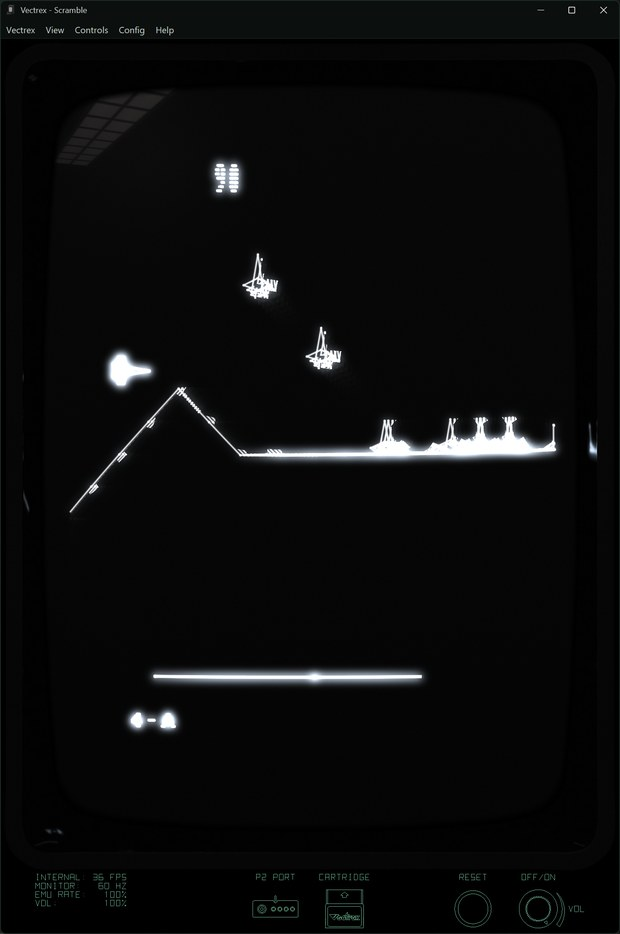
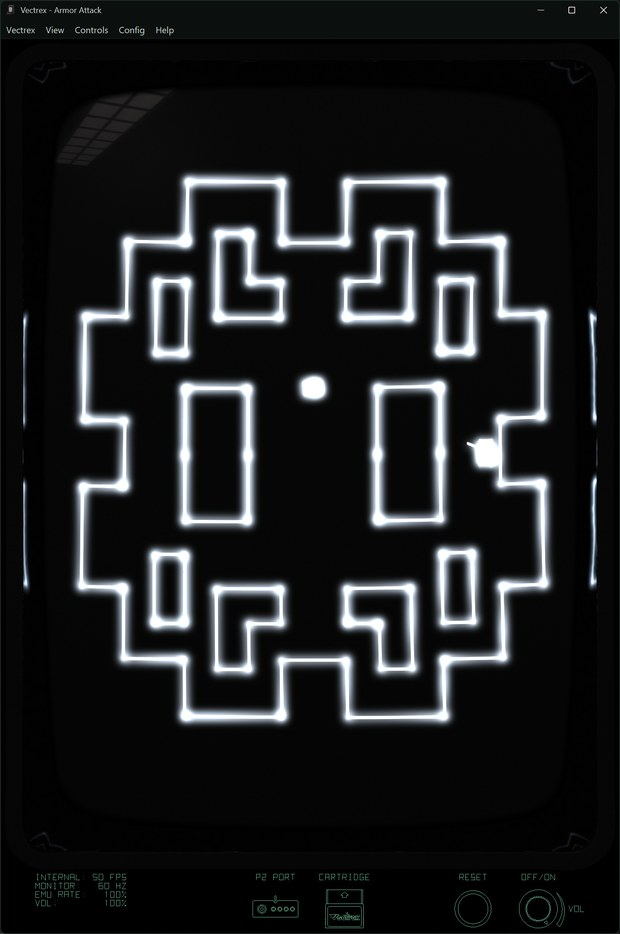
README: the main picture is Armor Attack (a still game shows the case best)

diff --git a/README.md b/README.md
@@ -127,8 +127,8 @@ picture, softly and a little warped as moulded plastic does, with fine scratches
 them.
 
 <p align="center">
-<a href="docs/images/v1.0.3/main.png"><img src="docs/images/v1.0.3/main_small.jpg" width="440" alt="Scramble in Vectrex_EMU: the tube in the Vectrex's plastic case, the dark menu bar above and the control deck below"></a><br>
-<em>Scramble in the window: the dark menu bar, the tube in its case, and the control deck below.</em>
+<a href="docs/images/v1.0.3/main.png"><img src="docs/images/v1.0.3/main_small.jpg" width="440" alt="Armor Attack in Vectrex_EMU: the tube in the Vectrex's plastic case, the dark menu bar above and the control deck below"></a><br>
+<em>Armor Attack in the window: the dark menu bar, the tube in its case, and the control deck below.</em>
 </p>
 
 <p align="center">
